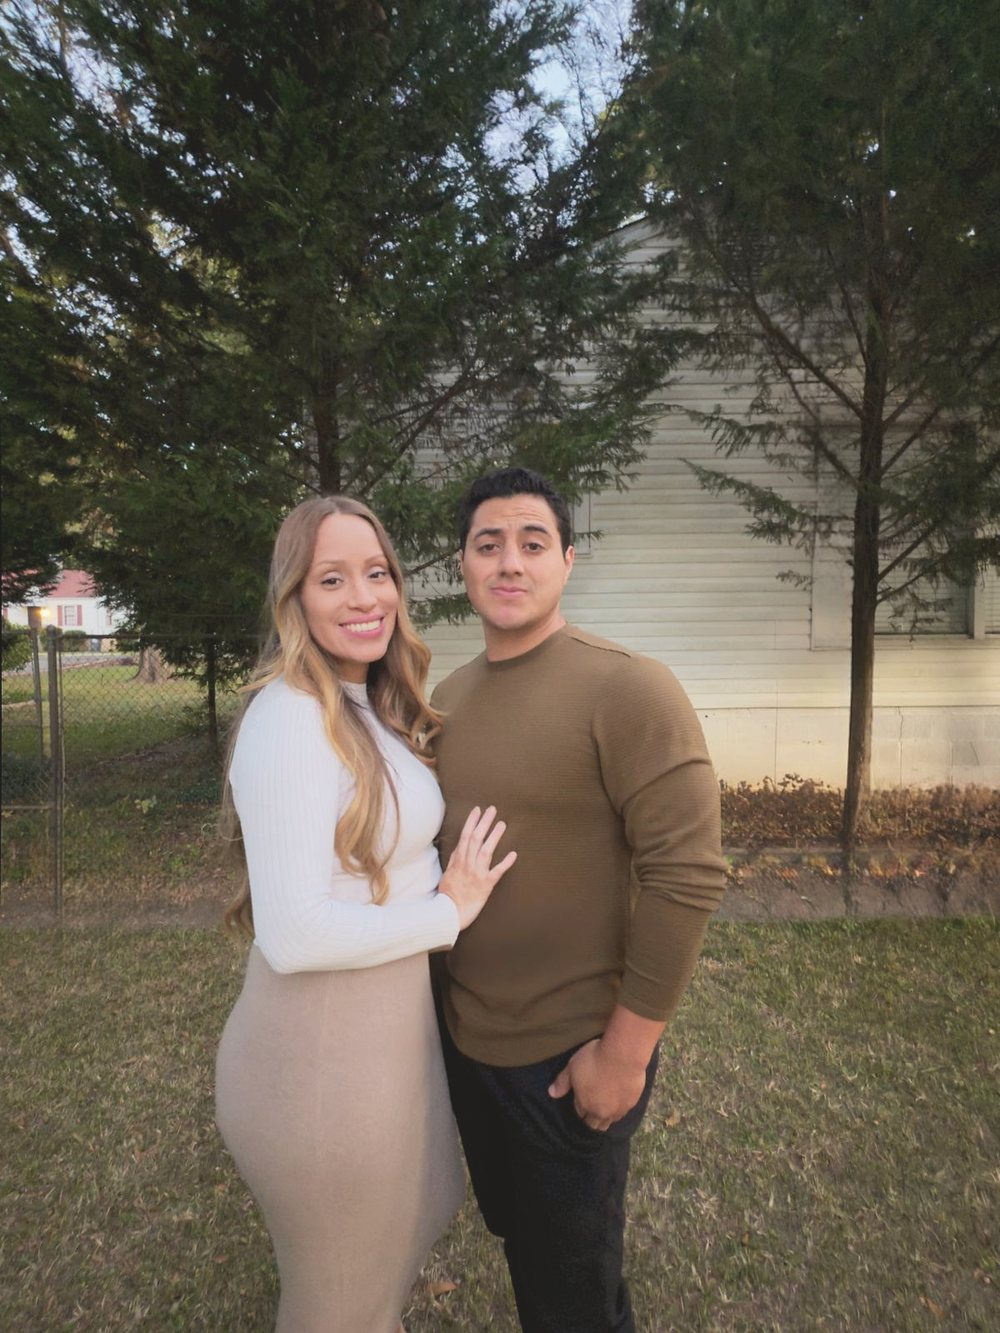
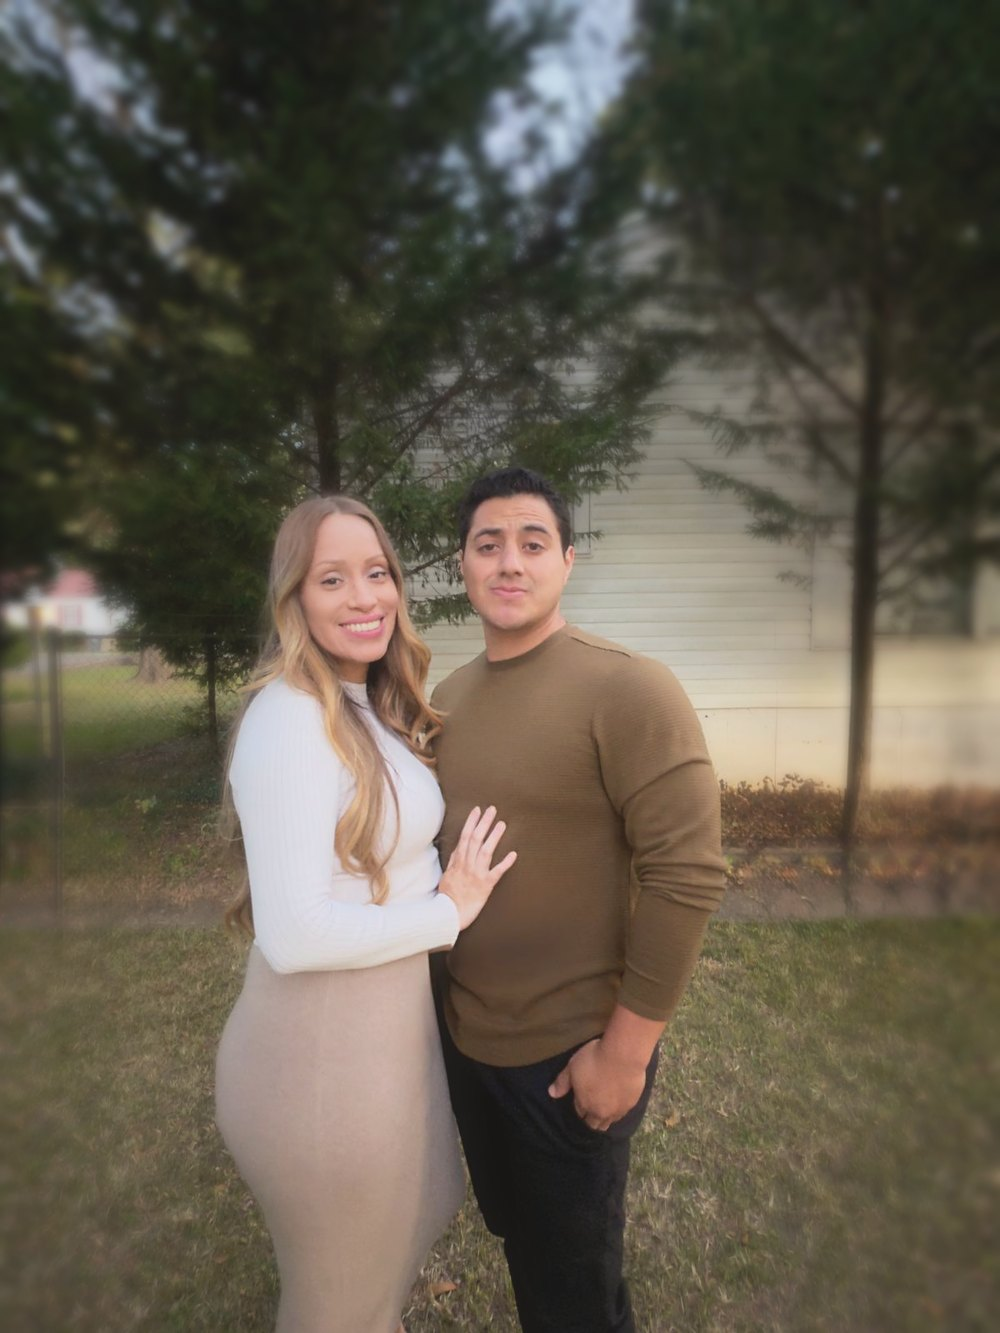
Quitar brindis del itinerario y retoque de estudio en las fotos

diff --git a/index.html b/index.html
@@ -2226,16 +2226,6 @@
           <div><div class="tl-hora sc">3:00 pm</div><div class="tl-que">Ceremonia</div></div>
         </li>
         <li class="tl-item">
-          <svg viewBox="0 0 28 28" fill="none" stroke="#3a3b3f" stroke-width="1.2" stroke-linejoin="round"
-            stroke-linecap="round">
-            <path d="M4 6h7l-.8 6a2.7 2.7 0 0 1-5.4 0Z M7.5 14.6v7.4 M5 22h5" />
-            <path d="M17 6h7l-.8 6a2.7 2.7 0 0 1-5.4 0Z M20.5 14.6v7.4 M18 22h5" />
-            <path d="M14 2.5v3 M12.5 4h3" />
-          </svg>
-          <span class="tl-dot"></span>
-          <div><div class="tl-hora sc">4:00 pm</div><div class="tl-que">Brindis de bienvenida</div></div>
-        </li>
-        <li class="tl-item">
           <svg viewBox="0 0 28 28" fill="none" stroke="#3a3b3f" stroke-width="1.2" stroke-linejoin="round">
             <path d="M14 23 C6 17 3 13.5 3 10 A4.6 4.6 0 0 1 14 7.6 A4.6 4.6 0 0 1 25 10 C25 13.5 22 17 14 23Z" />
           </svg>
